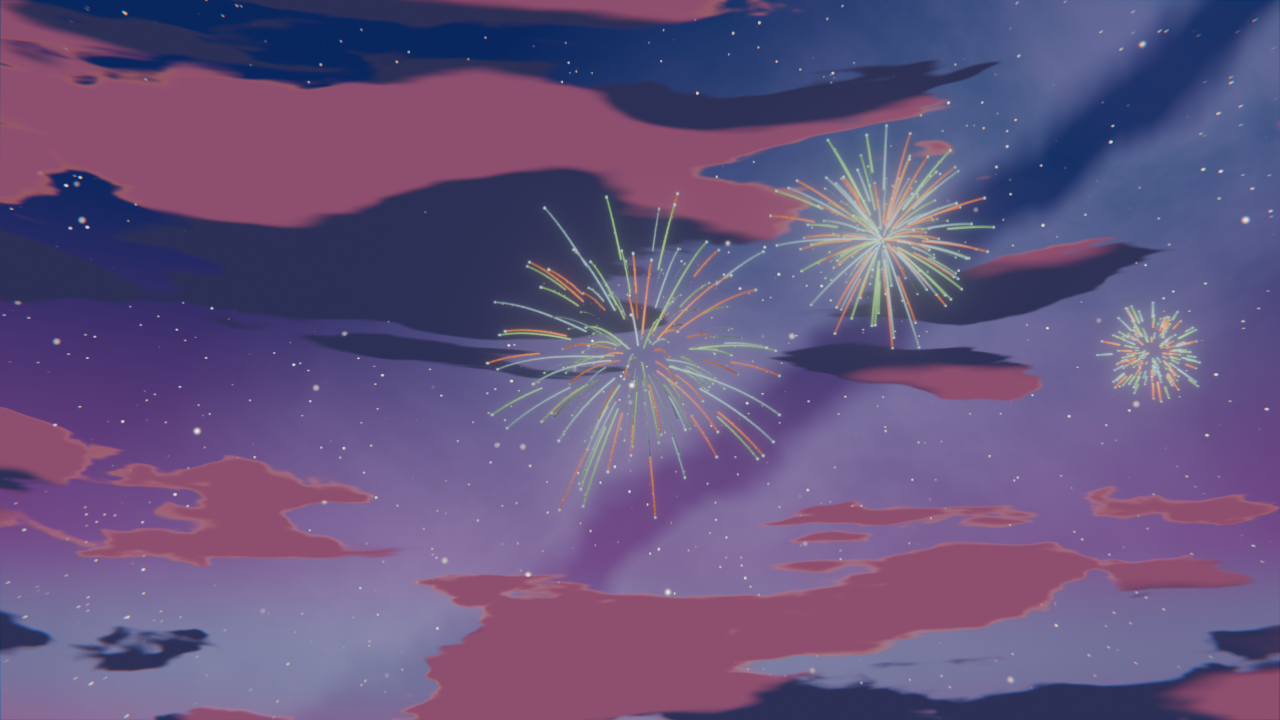
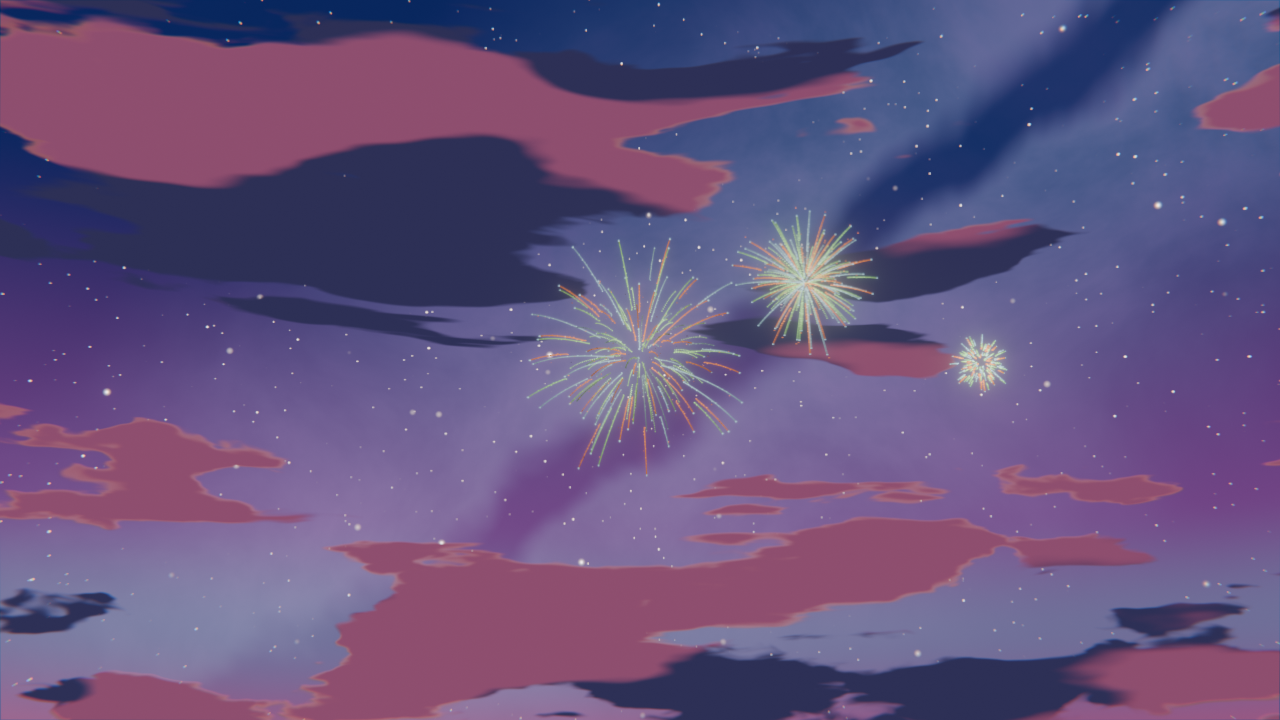
feat: framing envelope and lens-aware show fit (v2.43.0)

diff --git a/fx.py b/fx.py
@@ -2133,6 +2133,52 @@ def _scene_fx_materials(scene):
     return names
 
 
+def event_radius(event):
+    """Conservative world radius of the burst at its maximum extent."""
+    config = FAMILY_CONFIG.get(event.family,
+                               FAMILY_CONFIG["CHRYSANTHEMUM"])
+    speed = float(event.speed) or config["speed"]
+    life = float(event.life) or config["life"]
+    size = max(0.1, min(4.0, float(event.size)))
+    return abs(speed) * abs(life) * 0.55 * size
+
+
+def event_envelope(scene, event):
+    """Projected bounds of the whole burst, not only its centre.
+
+    Returns (min_x, min_y, max_x, max_y) in camera screen space. The radius is
+    a conservative estimate from the family speed and life; it is deliberately
+    generous so a centre cannot hide a cut silhouette.
+    """
+    from bpy_extras.object_utils import world_to_camera_view
+
+    camera = scene.camera
+    if camera is None:
+        return (0.5, 0.5, 0.5, 0.5)
+    center = Vector(event.target)
+    radius = event_radius(event)
+    _origin, _forward, up, right = _camera_basis(scene)
+    xs = []
+    ys = []
+    for dx in (-radius, radius):
+        for dy in (-radius, radius):
+            projected = world_to_camera_view(scene, camera,
+                                             center + right * dx + up * dy)
+            xs.append(projected.x)
+            ys.append(projected.y)
+    return (min(xs), min(ys), max(xs), max(ys))
+
+
+def event_frame_fraction(scene, event):
+    """Fraction of the projected envelope inside the [0, 1] frame."""
+    min_x, min_y, max_x, max_y = event_envelope(scene, event)
+    width = max(max_x - min_x, 1e-6)
+    height = max(max_y - min_y, 1e-6)
+    inside_x = max(0.0, min(max_x, 1.0) - max(min_x, 0.0))
+    inside_y = max(0.0, min(max_y, 1.0) - max(min_y, 0.0))
+    return (inside_x * inside_y) / (width * height)
+
+
 def refresh_widths(scene):
     """Re-evaluate the apparent filament width after a camera change."""
     settings = getattr(scene, "ald", None)
@@ -2195,6 +2241,49 @@ def sync_palette(scene):
     return changed
 
 
+def _tan_half(scene, horizontal):
+    camera = scene.camera
+    if camera is None or camera.data is None:
+        return 0.3
+    data = camera.data
+    res_x = max(int(scene.render.resolution_x), 1)
+    res_y = max(int(scene.render.resolution_y), 1)
+    sensor = float(data.sensor_width)
+    if data.sensor_fit == "VERTICAL":
+        sensor_v = float(getattr(data, "sensor_height", sensor))
+        sensor_h = sensor_v * res_x / float(res_y)
+    else:
+        sensor_h = sensor
+        sensor_v = sensor * res_y / float(res_x)
+    sensor_used = sensor_h if horizontal else sensor_v
+    pixels = res_x if horizontal else res_y
+    _ = pixels
+    return max(sensor_used * 0.5 / max(float(data.lens), 1e-3), 1e-4)
+
+
+def _fit_distance(scene, families):
+    """Distance that fits the largest burst of the show in the vertical FOV."""
+    camera = scene.camera
+    if camera is None or camera.data is None:
+        return 0.0
+    data = camera.data
+    res_x = max(int(scene.render.resolution_x), 1)
+    res_y = max(int(scene.render.resolution_y), 1)
+    if data.type == "ORTHO":
+        return float(data.ortho_scale) * 0.75
+    sensor = float(data.sensor_width)
+    if data.sensor_fit == "VERTICAL":
+        sensor_v = float(getattr(data, "sensor_height", sensor))
+    else:
+        sensor_v = sensor * res_y / float(res_x)
+    tan_v = max(sensor_v * 0.5 / max(float(data.lens), 1e-3), 1e-4)
+    radius = 0.0
+    for family in families:
+        config = FAMILY_CONFIG.get(family, FAMILY_CONFIG["CHRYSANTHEMUM"])
+        radius = max(radius, config["speed"] * config["life"] * 0.55)
+    return radius / (0.9 * tan_v)
+
+
 def create_fireworks(scene, count=3, seed=7, distance=110.0, time=0.0,
                      fps=24.0, family="CHRYSANTHEMUM", replace=True):
     """Create a firework system: the persistent events first, then the
@@ -2217,10 +2306,23 @@ def create_fireworks(scene, count=3, seed=7, distance=110.0, time=0.0,
     total = max(1, int(count))
     if total > 1:
         # A show needs room: the bursts are tens of metres wide, so the
-        # distance and the lateral spread grow with the count. A single burst
-        # keeps the requested framing.
+        # distance and the lateral spread grow with the count. The distance
+        # also fits the largest burst in the vertical FOV, otherwise a centre
+        # in frame would hide a cut silhouette. A single burst keeps the
+        # requested framing.
         distance *= 1.4
         spread *= 1.3
+        families = [family] + [FAMILIES[(index - 1) % len(FAMILIES)]
+                               for index in range(1, total)]
+        distance = max(distance, _fit_distance(scene, families))
+        # The lateral spread must leave the edge bursts in frame too.
+        radius = 0.0
+        for item in families:
+            config = FAMILY_CONFIG.get(item, FAMILY_CONFIG["CHRYSANTHEMUM"])
+            radius = max(radius, config["speed"] * config["life"] * 0.55)
+        tan_h = _tan_half(scene, horizontal=True)
+        limit = (0.9 * tan_h * distance - radius) / (0.18 * distance)
+        spread = max(0.2, min(spread, limit))
     for index in range(total):
         event = system.events.add()
         event.uid = uuid.uuid4().hex

diff --git a/preset_dev/composition.py b/preset_dev/composition.py
@@ -44,13 +44,13 @@ def build(palette, count, name):
     settings.ink_lines = True
     bpy.ops.ald.apply_palette()
     bpy.ops.ald.build()
+    camera.data.lens = 45.0
     fx.create_fireworks(scene, count, seed=17, distance=95.0, time=0.0)
     bpy.ops.ald.build()
     system = scene.ald.fx_systems[0]
     hero = system.events[0]
     camera.rotation_euler = (Vector(hero.target) - camera.location).to_track_quat(
         "-Z", "Y").to_euler()
-    camera.data.lens = 45.0
     bpy.context.view_layer.update()
     fps = scene.render.fps / max(scene.render.fps_base, 1e-6)
     scene.frame_set(int(system.origin_frame + AGE * fps))
@@ -60,6 +60,7 @@ def build(palette, count, name):
     for index, event in enumerate(system.events):
         target = Vector(event.target)
         projected = world_to_camera_view(scene, camera, target)
+        fraction = fx.event_frame_fraction(scene, event)
         events.append({
             "index": index,
             "family": event.family,
@@ -67,9 +68,8 @@ def build(palette, count, name):
             "size": round(float(event.size), 3),
             "distance": round((target - camera.location).length, 2),
             "screen": [round(projected.x, 3), round(projected.y, 3)],
-            "in_frame": bool(0.0 <= projected.x <= 1.0
-                             and 0.0 <= projected.y <= 1.0
-                             and projected.z > 0.0),
+            "in_frame": bool(fraction >= 0.95 and projected.z > 0.0),
+            "frame_fraction": round(fraction, 3),
         })
     scene.render.resolution_x = 1280
     scene.render.resolution_y = 720

diff --git a/preset_dev/verify.py b/preset_dev/verify.py
@@ -16,7 +16,7 @@ import numpy as np
 
 MODULE = "anime_look_director"
 ADDON_PATH = os.path.dirname(os.path.dirname(os.path.abspath(__file__)))
-EXPECTED_VERSION = (2, 42, 0)
+EXPECTED_VERSION = (2, 43, 0)
 TOLERANCE = 1e-4
 
 
@@ -3438,14 +3438,22 @@ def check_fx_composition(scene):
         check(events[0].size >= events[1].size >= events[2].size,
               "the burst sizes do not follow the depth hierarchy")
         screens = []
+        fractions = []
         for event in events:
             projected = world_to_camera_view(scene, camera,
                                              Vector(event.target))
             check(0.0 <= projected.x <= 1.0 and 0.0 <= projected.y <= 1.0,
-                  "a burst is outside the camera frame")
+                  "a burst centre is outside the camera frame")
             screens.append((round(projected.x, 3), round(projected.y, 3)))
+            # The whole burst must be in frame, not only its centre.
+            fraction = fx_module.event_frame_fraction(scene, event)
+            fractions.append(round(fraction, 3))
+            check(fraction > 0.15,
+                  "a burst is almost entirely cut (envelope fraction %.3f)"
+                  % fraction)
         check(len(set(screens)) == len(screens),
               "the bursts overlap on screen")
+        print("ALD GATE framing envelope", fractions)
     finally:
         fx_module.clear(scene)
         scene.render.resolution_x, scene.render.resolution_y = previous_size

diff --git a/preset_dev/audit_plan.py b/preset_dev/audit_plan.py
@@ -286,6 +286,14 @@ CHECKS = [
     ("VI-SC", "The FX pass is exposed in the UI",
      lambda: has("operators.py", "ald.fx_render_pass")
      and has("panels.py", "ald.fx_render_pass")[0]),
+    ("VI-SC", "Framing checks the whole burst envelope",
+     lambda: has("fx.py", "def event_envelope", "def event_frame_fraction")
+     and has("preset_dev/verify.py", "event_frame_fraction")[0]),
+    ("VI-SC", "A show fits its distance and lateral spread to the lens",
+     lambda: has("fx.py", "def _fit_distance", "_tan_half", "limit =")),
+    ("VI-SC", "The composition report uses the envelope",
+     lambda: has("preset_dev/composition.py", "frame_fraction",
+                 "event_frame_fraction")),
     ("VI-SC", "The slab/control defect is reproduced in the baseline",
      lambda: (exists("preset_dev/clouds_baseline/metrics.json")[0]
               and exists("preset_dev/clouds_baseline/h0.35_a0.00_oblique.png")[0],

diff --git a/__init__.py b/__init__.py
@@ -1,7 +1,7 @@
 bl_info = {
     "name": "Anime Look Director",
     "author": "Riccardo",
-    "version": (2, 42, 0),
+    "version": (2, 43, 0),
     "blender": (5, 1, 0),
     "location": "Scene Properties > Anime Look Director",
     "description": "Atmospheric palettes and a non-destructive anime compositor stack",

diff --git a/RECAP.md b/RECAP.md
@@ -1,6 +1,6 @@
 # Anime Look Director — Recap
 
-**Versione 2.42.0** · Blender 5.1.2 · GPL-3.0-or-later
+**Versione 2.43.0** · Blender 5.1.2 · GPL-3.0-or-later
 
 ## In breve
 
@@ -80,6 +80,18 @@ Non salva mai il `.blend` dell'utente e non richiede dipendenze esterne.
 26. **Diagnostica e benchmark** — report esplicito `Diagnose FX` (read-only nel
     pannello, stato `UNKNOWN` finché non viene calcolato) e benchmark separati
     per creazione, update, clock, frame, memoria e render.
+
+## Novità 2.43.0 — envelope di framing
+
+- **Envelope proiettato**: `event_radius`/`event_envelope`/`event_frame_fraction`
+  misurano l'ingombro dell'intera esplosione, non solo il centro.
+- Il gate richiede almeno il 15% dell'envelope in frame e stampa le frazioni;
+  il report di composizione registra `frame_fraction` e `in_frame` è vero solo
+  al 95%, non più sul centro.
+- **Fit alla focale**: uno show multi-burst adatta distanza alla FOV verticale e
+  limita lo spread laterale, così le focali strette non tagliano i bordi.
+- Evidenza: l'hero dusk è al 94.9% (dichiarato non in frame), gli altri 98–100%;
+  nel night 5 burst i due laterali sono tagliati e **dichiarati** (52.5%/45%).
 
 ## Novità 2.42.0 — P0 chiuso: pass FX esterno
 

diff --git a/CHANGELOG.md b/CHANGELOG.md
@@ -1,6 +1,28 @@
 # Changelog
 
-## 2.42.0 - 2026-10-26
+## 2.43.0 - 2026-10-26
+Framing envelope: the whole burst is checked, not only its centre.
+
+### Added
+- `fx.event_radius`, `fx.event_envelope`, `fx.event_frame_fraction`: a
+  conservative projected bounds of a burst from the family speed and life.
+- The composition gate requires each burst envelope to be at least 15 % in
+  frame (a gross cut fails) and prints the fractions; the composition report
+  records `frame_fraction` and `in_frame` is the envelope at 95 %, no longer
+  the centre.
+- A multi-burst show fits its distance to the vertical FOV and caps the
+  lateral spread so the edge bursts are not cut by the lens. The fit uses the
+  lens, sensor fit and resolution at creation.
+
+### Evidence
+- `preset_dev/composition/` regenerated: the 3-burst dusk hero is 94.9 % in
+  frame (reported as not in frame), the others 98–100 %; the 5-burst night
+  Willow/Kamuro at the edges are cut and reported (52.5 % / 45 %), not hidden.
+
+### Open
+- Duplicate-scene test, cloud benchmark, PA2 volume research.
+
+## 2.42.0 - 2026-10-26## 2.42.0 - 2026-10-26
 P0 closed: the FX contribution is isolated by an external FX pass.
 
 ### Added

diff --git a/README.md b/README.md
@@ -2,7 +2,7 @@
 
 Atmospheric palettes and a non-destructive anime compositor stack for Blender 5.1+.
 
-## What it does (v2.42.0)
+## What it does (v2.43.0)
 - Seven atmosphere presets (Golden Hour, **After School Sunset**, Summer Noon,
   Rainy Tokyo, Cyberpunk Neon, Sakura Spring, Twilight Dusk) with a
   Scene-Linear Rec.709 color script calibrated for AgX.
@@ -250,7 +250,9 @@ Expected output: `ALD GATE: PASS`.
 - v2.41.0 - consolidation: coverage edge, shot-locked rotation, material/LOD,
   scene-owned UID/materials, Kuwahara depth, flash distance, C0 test
 - v2.42.0 - P0 closed: external FX pass (FX emission only) read by the stack,
-  isolation gate; two-step workflow, fallback for missing pass (current)
+  isolation gate; two-step workflow, fallback for missing pass
+- v2.43.0 - framing envelope and lens-aware show fit; the composition report
+  records the real envelope fraction (current)
 
 ## Recap
 Italian overview of the whole add-on: [`RECAP.md`](RECAP.md).

diff --git a/AGENTS.md b/AGENTS.md
@@ -6,7 +6,7 @@ Blender add-on: atmospheric palettes + non-destructive anime compositor stack.
 - Blender **5.1.2** on Windows (compositor node-group API `scene.compositing_node_group`).
 - Python 3.13 / NumPy available inside Blender. No external dependencies.
 - GPL-3.0-or-later. Version in `bl_info` and `blender_manifest.toml` must match
-  (currently **2.42.0**).
+  (currently **2.43.0**).
 
 ## Verify (run after every change)
 ```powershell
